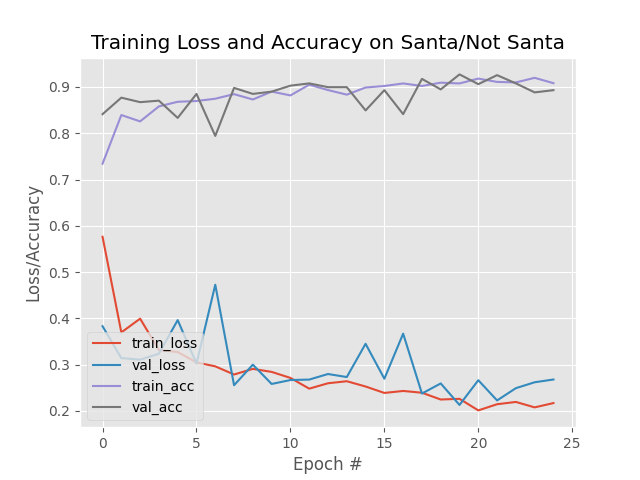
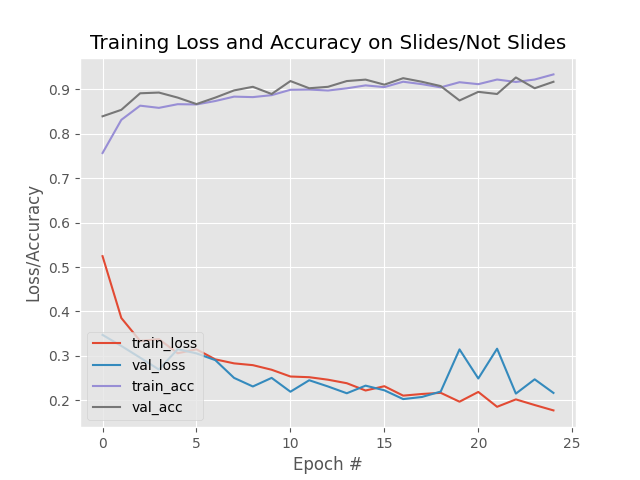
Updated README

diff --git a/README.md b/README.md
@@ -1,18 +1,30 @@
 Initial
 
-## Automate extraction of study notes from `WhatsApp Images`
+## GROUN - Get Rid of Your Notes
 
-We all end up with hell lot of _images to be deleted_ at the end of each semester. I've trained a CNN model to predict such images and extract them out of WhatsApp Images directory :)
+GROUN is an application which can be used to delete the spam related to lecture slides/notes present in our mobile devices. It currently predicts the image to be a lecture slide or not with a validation accuracy of 91 percent.
 
-Requirements:
+### Architecture
 
-- [Numpy](http://www.numpy.org/)
-- [Keras](https://keras.io)
+The model is built on the standard LeNet architecture and on a dataset of over 2000 images, further increased through Data Augmentation.
 
-Instructions:
+### Project Execution
 
-Install dependencies using `pip install -r requirements.txt`. Connect your Smartphone to your system, mount `Internal Storage` and copy the absolute path to the WhatsApp folder, to know the absolute path open a terminal in `WhatsApp` folder and run `pwd` command. Run the `extract.py` script by `python extract.py` and paste the copied path when asked to. The script will create a new folder named `notes` in your `WhatsApp Image` folder and move the study notes images to it.
+1. Open the `Terminal`.
+2. Clone the repository by entering `https://github.com/pranay-ar/GROUN.git`.
+3. Ensure that `Python3` and `pip`/`conda` is installed on the system.
+4. Create a `virtualenv` by executing the following command: `virtualenv -p python3 env`.
+5. Activate the `env` virtual environment by executing the follwing command: `source env/bin/activate`.
+6. Enter the cloned repository directory and execute `pip install -r requirements.txt`.
+7. Now, execute the following command: `python test.py --model slides.model \` and it will ask for the image location you want to test the model on.
+8. Enter the image location as follows: `image <location>` and the model will display the results.
 
-I've trained the model on about 1000 images and using Keras' data augmentation pipeline. Currently the model is 85% accurate on my dataset. Please feel free to add your own data and train the model on it to make the model more accurate. To add your own data, create a `data` folder in `behind_the_scenes` folder, create two subfolders `1` and `0` inside `data`, in `1` put study notes and put all other important images in `0`. See `behind_the_scenes` folder for more info.
+### Performance Overview
 
-Enjoy!
+![](plot.png)
+
+### Miscellaneous
+
+Inorder to create a custom dataset, the following [link](https://www.pyimagesearch.com/2017/12/04/how-to-create-a-deep-learning-dataset-using-google-images/) can be used to create a script to download mutliple images at once for a single query.
+
+I am currently working on creating a web-application to automate this process of deleting the spam images present in our devices. Feel free to open an issue to improve an existing feature or to collaborate on this together.
